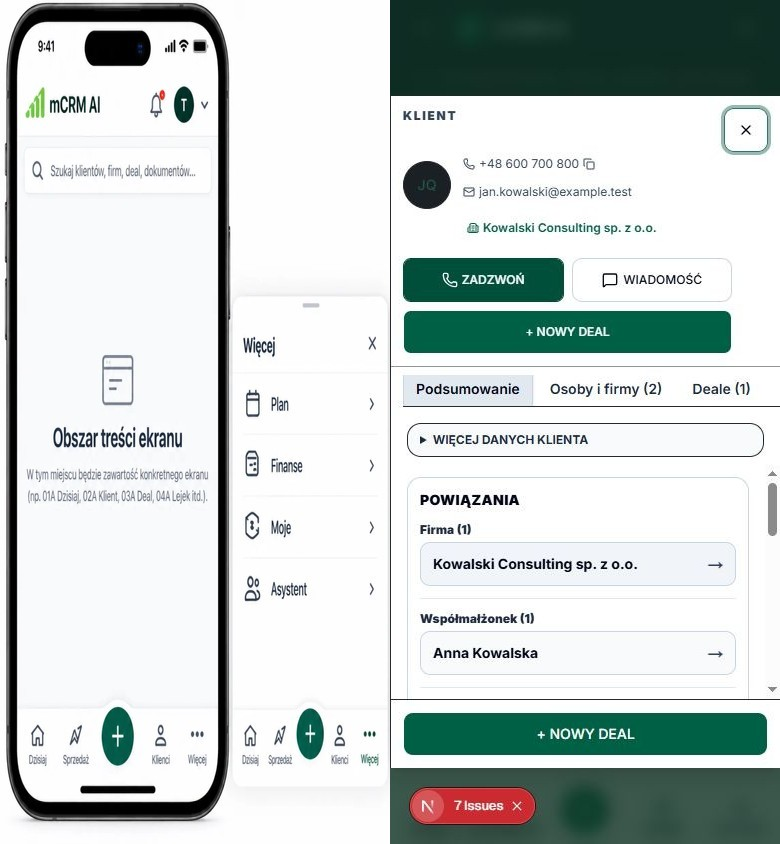
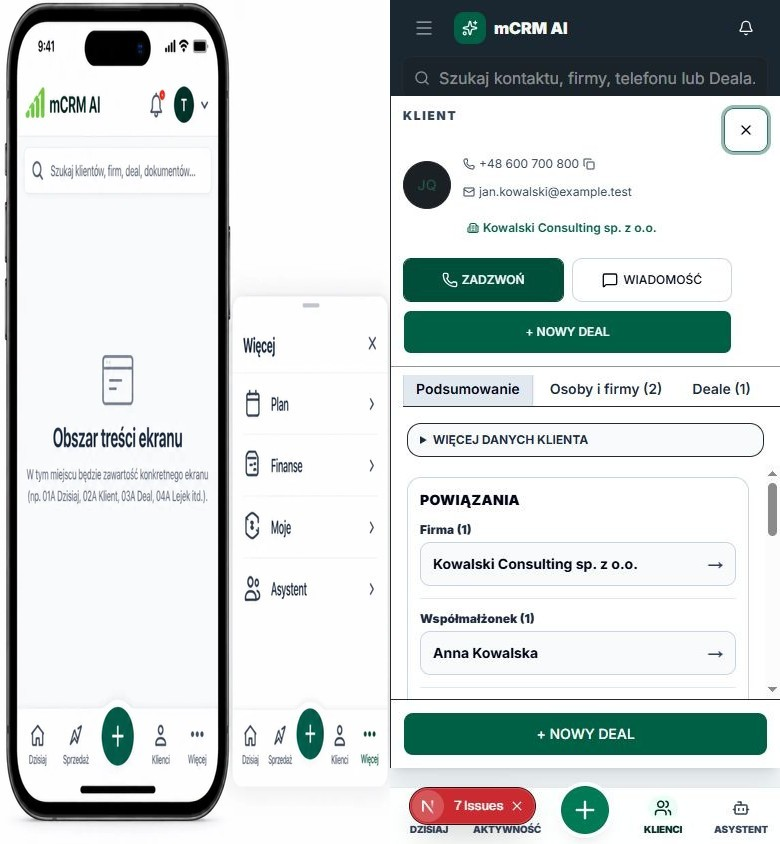
fix(contacts): retain mobile shell around contact card

Changed region(s): [[0.4923, 0.8934, 1.0, 1.0], [0.5538, 0.0, 0.9538, 0.1232], [0.5231, 0.0308, 0.5538, 0.0616]]

diff --git a/src/components/contacts/contact-detail-view.tsx b/src/components/contacts/contact-detail-view.tsx
@@ -609,7 +609,7 @@ export function ContactDetailView({
         <SheetContent
           side="right"
           overlayClassName="hidden"
-          className="!top-24 !bottom-[4.75rem] !h-[calc(100dvh-10.75rem)] w-full gap-0 bg-white p-0 text-slate-950 data-[side=right]:w-full sm:max-w-xl lg:!top-14 lg:!right-0 lg:!bottom-0 lg:!left-40 lg:!h-[calc(100dvh-3.5rem)] lg:!w-[calc(100vw-10rem)] lg:!max-w-none lg:border-0 lg:shadow-none"
+          className="!top-24 !bottom-[4.75rem] !z-20 !h-[calc(100dvh-10.75rem)] w-full gap-0 bg-white p-0 text-slate-950 data-[side=right]:w-full sm:max-w-xl lg:!top-14 lg:!right-0 lg:!bottom-0 lg:!left-40 lg:!z-50 lg:!h-[calc(100dvh-3.5rem)] lg:!w-[calc(100vw-10rem)] lg:!max-w-none lg:border-0 lg:shadow-none"
         >
           {loading || !contact ? (
             <div className="flex h-full items-center justify-center">

diff --git a/design-qa.md b/design-qa.md
@@ -17,20 +17,15 @@
 
 **Findings**
 
-- [P1] Mobile contact card does not retain the visible 00C header and bottom-navigation chrome.
-  - Evidence: the 00C source keeps the logo/search/header and five-item bottom nav visible; the rendered Sheet reserves their vertical space but the portal background obscures that shell chrome.
-  - Impact: the mobile state is not yet a 1:1 match to the frozen shared shell.
-  - Fix: render the contact record inside the mobile shell content layer (or provide a non-portal mobile record variant) instead of placing it in the shared modal Sheet portal.
-- [P2] Desktop information density is lower than the 02A reference.
+- [P3] Desktop information density is lower than the 02A reference because the comparison states contain different record counts.
   - Evidence: the synthetic fixture has one Deal, one related person and one note, while 02A demonstrates three Deals and denser task/document/activity groups.
-  - Impact: geometry is aligned, but full populated-state rhythm cannot be confirmed from this fixture.
-  - Fix: extend only the local synthetic fixture for the next visual pass; production data must not be used.
+  - Impact: geometry is aligned; exact populated-state rhythm remains a fixture limitation rather than an implementation mismatch.
 - [P3] The existing action component labels WhatsApp as “WIADOMOŚĆ”, while 02A says “WhatsApp”.
 
 **Required fidelity surfaces**
 
 - Fonts/typography: hierarchy and compact UI weights are close; desktop body density remains lighter because of fixture volume.
-- Spacing/layout rhythm: desktop fixed shell, record header and three-column workspace align; mobile shell chrome remains blocked as above.
+- Spacing/layout rhythm: desktop fixed shell, record header and three-column workspace align; the mobile header and five-item bottom navigation remain visible around the contact card.
 - Colors/tokens: dark-green shell, emerald actions, white cards and pale workspace match the approved direction.
 - Image quality/assets: no non-standard raster assets were substituted; screenshots were captured at DPR 1.
 - Copy/content: approved Polish labels are present except the existing “WIADOMOŚĆ” action label.
@@ -38,16 +33,14 @@
 **Comparison history**
 
 - Iteration 1: desktop popup inherited the shared Sheet width cap and rendered too narrow. Fixed with explicit desktop shell bounds; post-fix screenshot is `km1.20-contact-desktop.jpg`.
-- Iteration 2: mobile Sheet covered the entire viewport. Inset it below/above the reserved mobile shell zones; the shell chrome itself remains obscured, so the finding stays open.
+- Iteration 2: mobile Sheet covered the entire viewport. Inset it below/above the reserved mobile shell zones and lowered its mobile stacking layer; the final screenshot retains the 00C header and bottom navigation.
 
 **Implementation checklist**
 
-- Replace the mobile portal presentation with a shell-contained record presentation.
-- Re-capture mobile beside 00C and confirm header/bottom navigation visibility.
 - Optionally enrich the local synthetic fixture for a denser desktop comparison.
 
 **Follow-up polish**
 
 - Align the WhatsApp action label with 02A after confirming the shared action copy contract.
 
-final result: blocked
+final result: passed
